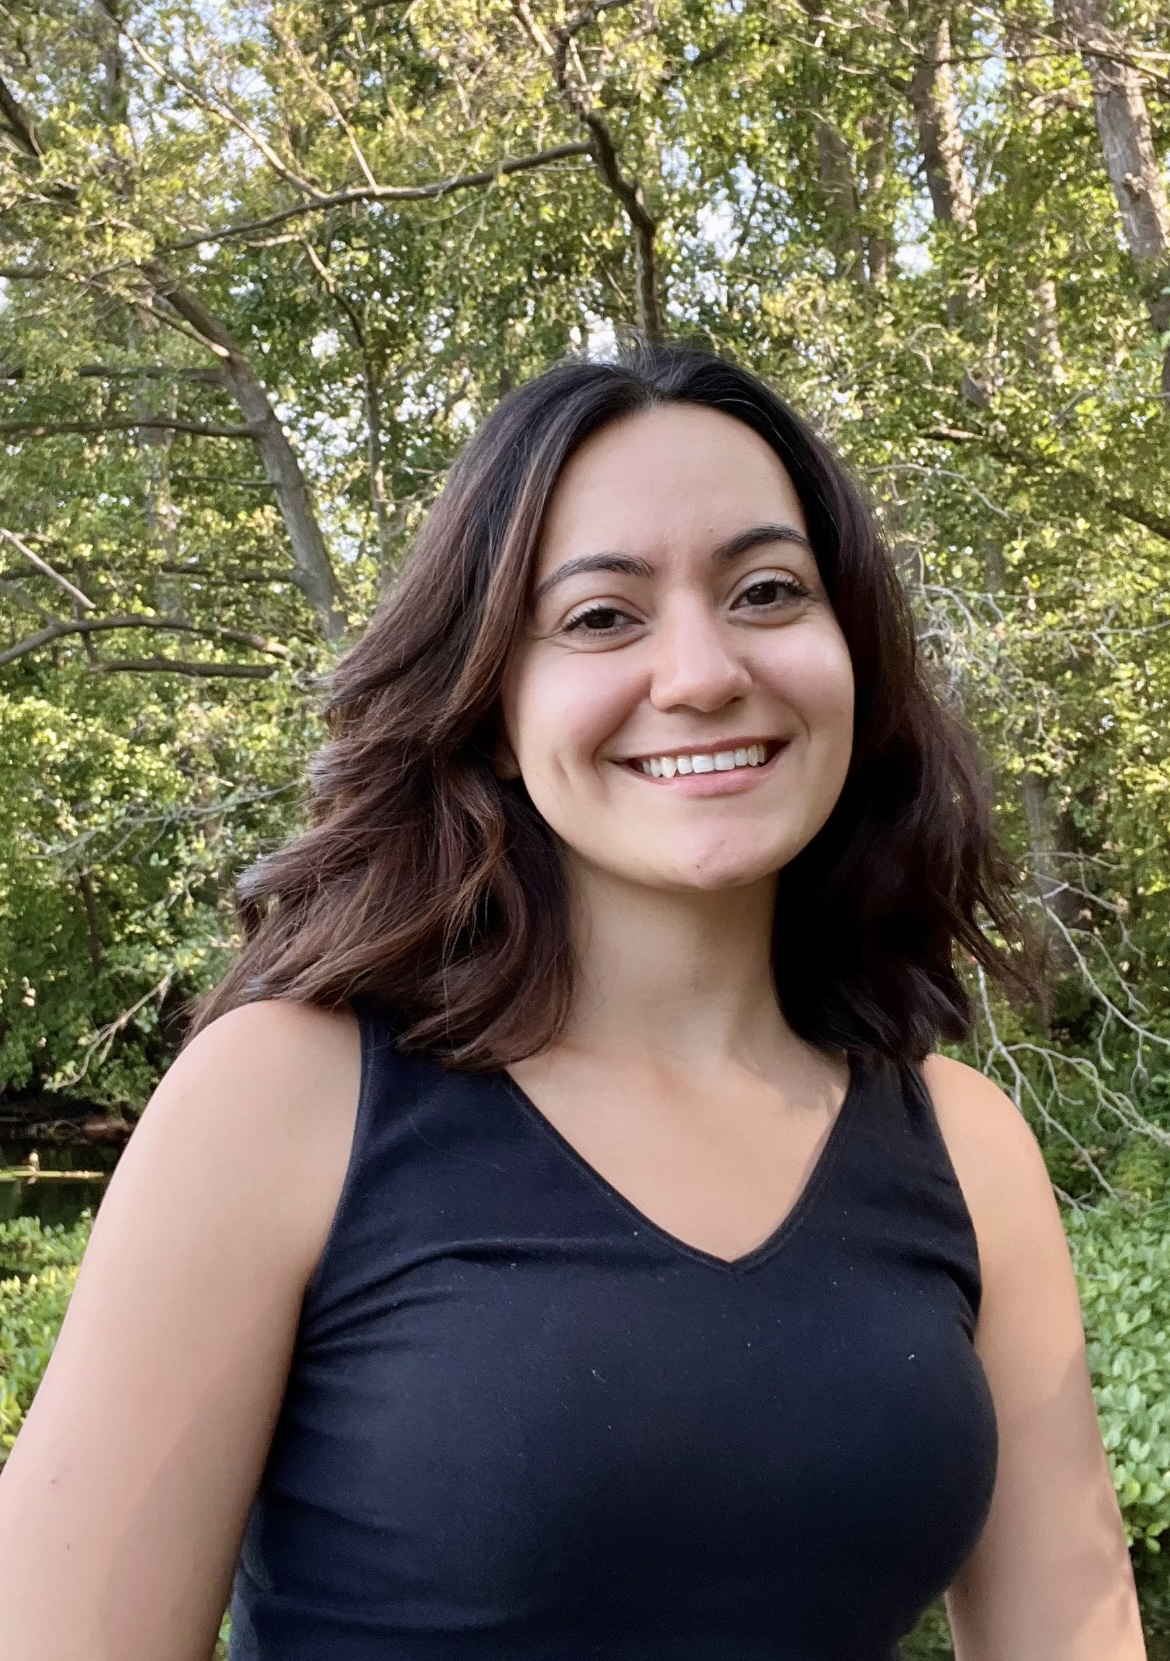
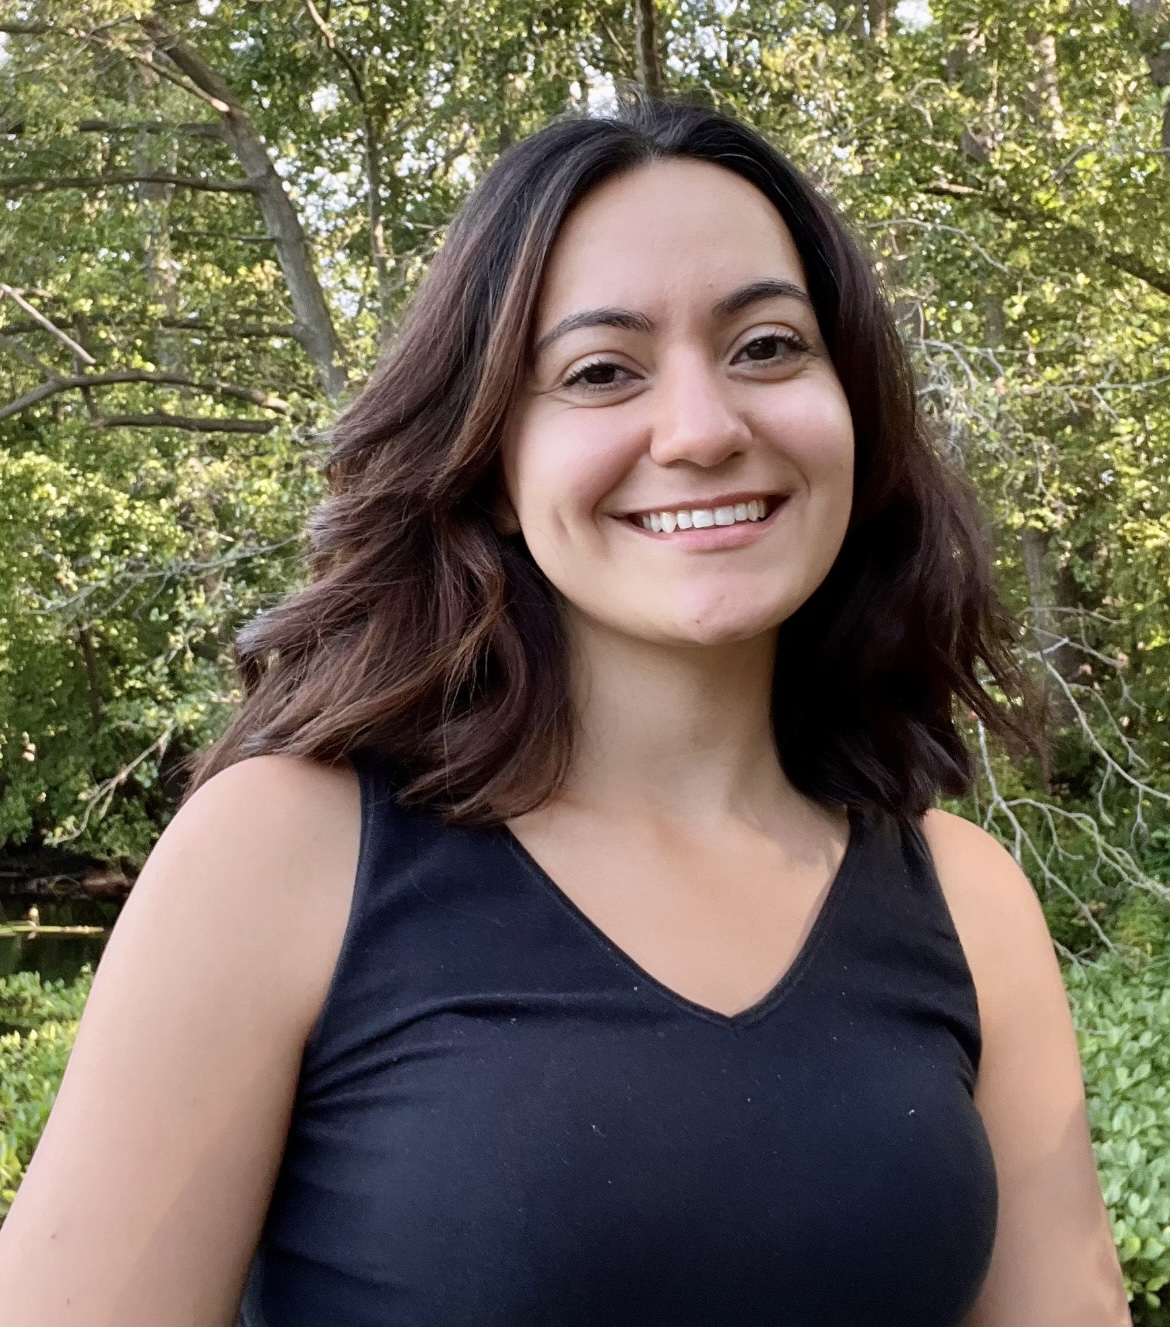
commit message
Added Abir + Changed my pic

diff --git a/_posts/people/2025-03-06-utthasani.md b/_posts/people/2025-03-06-utthasani.md
@@ -1,0 +1,22 @@
+---
+layout: people
+title: Abir Utthasani
+excerpt: PhD Student
+categories: current
+tags:
+image:
+  path: *image
+  teaser: Utthasani.jpeg
+---
+
+Hello, my name is Abir Utthasani, I am a doctoral researcher at Christian Hilbe's group where I study mathematical models of cooperation. I did my master's and bachelor's studies in physics from the Indian Institute of Science Education and Research Kolkata. My work here primarily focuses on the study of stochastic games to model cooperation in changing environments.
+
+
+<div id="socialMedia" style="text-align:center">
+    <a href="mailto:utthasani@evolbio.mpg.de" title="Email"><i style="font-size:24px" class="fa fa-envelope"></i></a>
+    <a href="https://bsky.app/profile/abirutthasani.bsky.social" title="Bluesky"><i style="font-size:24px" class="fa fa-twitter"></i></a>
+  
+</div>
+
+<img src="../../images/Utthasani.jpeg" class="center">
+
